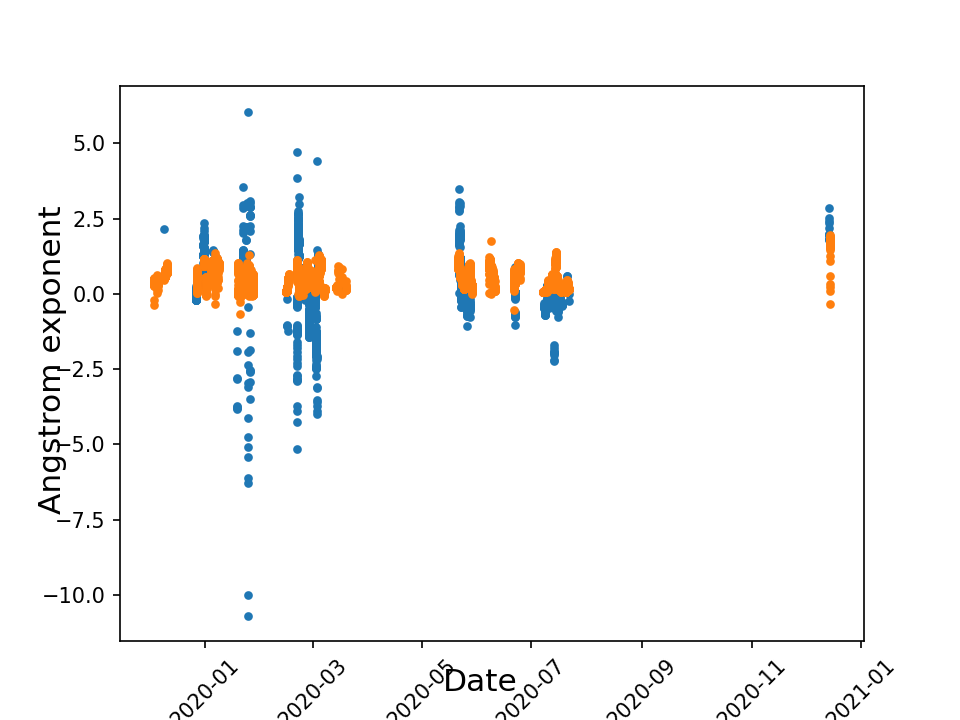
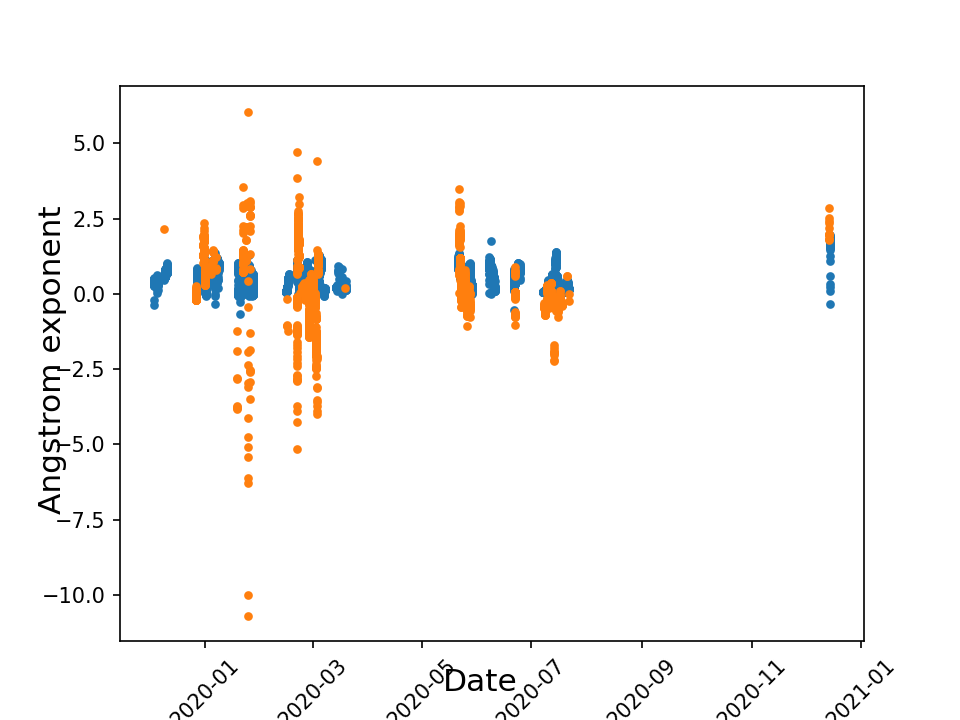
fix graphs up to continuity2

diff --git a/aeronet_cosqm_correlation_santa.py b/aeronet_cosqm_correlation_santa.py
@@ -186,18 +186,18 @@ cosqm_santa_sun = Cloudslidingwindow(cosqm_santa_sun_nodiff, slide_window_size, 
 # (todo)
 
 # plot filtering
-cosqm_band = 3
-plt.figure(figsize=[5,3], dpi=100)
-plt.scatter(dt_santa, cosqm_santa[:,cosqm_band], s=10, label='cosqm_santa')
-plt.scatter(dt_santa_mw, cosqm_santa_mw[:,cosqm_band], s=10, alpha=0.5, label='milky way below '+str(mw_min_angle))
-plt.scatter(dt_santa_moon, cosqm_santa_moon[:,cosqm_band], s=8, alpha=0.5, label='moon below '+str(moon_min_angle))
-plt.scatter(dt_santa_sun, cosqm_santa_sun[:,cosqm_band], s=6, label='sun below '+str(sun_min_angle), c='k')
-#plt.scatter(dt_santa_moon, moon_angles[moon_mask]/10+23, s=10, label='moon angle')
-#plt.scatter(dt_santa_moon_sun, sun_angles[sun_mask]/10+23, s=10, label='sun angle')
-plt.legend(loc=[0,0])
-plt.title('ZNSB Santa-Cruz - Filtered clear band')
-plt.xlabel('date')
-plt.ylabel('CoSQM magnitude (mag)')
+# cosqm_band = 3
+# plt.figure(figsize=[5,3], dpi=100)
+# plt.scatter(dt_santa, cosqm_santa[:,cosqm_band], s=10, label='cosqm_santa')
+# plt.scatter(dt_santa_mw, cosqm_santa_mw[:,cosqm_band], s=10, alpha=0.5, label='milky way below '+str(mw_min_angle))
+# plt.scatter(dt_santa_moon, cosqm_santa_moon[:,cosqm_band], s=8, alpha=0.5, label='moon below '+str(moon_min_angle))
+# plt.scatter(dt_santa_sun, cosqm_santa_sun[:,cosqm_band], s=6, label='sun below '+str(sun_min_angle), c='k')
+# #plt.scatter(dt_santa_moon, moon_angles[moon_mask]/10+23, s=10, label='moon angle')
+# #plt.scatter(dt_santa_moon_sun, sun_angles[sun_mask]/10+23, s=10, label='sun angle')
+# plt.legend(loc=[0,0])
+# plt.title('ZNSB Santa-Cruz - Filtered clear band')
+# plt.xlabel('date')
+# plt.ylabel('CoSQM magnitude (mag)')
 
 
 
@@ -208,13 +208,13 @@ hours_float_raw = np.array([ date.hour+                    #WATCH OUT FOR TIMEZO
     date.second/3600 for date in dt_santa ])
 hours_float_raw[hours_float_raw>12]-=24
 
-plt.figure(figsize=[12,8])
-plt.hist2d(hours_float_raw, cosqm_santa[:,0], 200, cmap='inferno')
-plt.hist2d(hours_float_raw, cosqm_santa[:,0], 200, cmap='inferno', norm=LogNorm())
-plt.ylim(15,21)
-plt.title('ZNSB - no filter - clear')
-plt.xlabel('hour')
-plt.ylabel('CoSQM magnitude')
+# plt.figure(figsize=[12,8])
+# plt.hist2d(hours_float_raw, cosqm_santa[:,1], 200, cmap='inferno')
+# plt.hist2d(hours_float_raw, cosqm_santa[:,1], 200, cmap='inferno', norm=LogNorm())
+# plt.ylim(15,21)
+# plt.title('ZNSB - no filter - clear')
+# plt.xlabel('hour')
+# plt.ylabel('CoSQM magnitude')
 
 #clouds filter
 hours_float_diff = np.array([ date.hour+                    #WATCH OUT FOR TIMEZONE HERE!
@@ -236,13 +236,13 @@ hours_float_moon = np.array([ date.hour+                    #WATCH OUT FOR TIMEZ
     date.second/3600 for date in dt_santa_moon ])
 hours_float_moon[hours_float_moon>12]-=24
 
-plt.figure(figsize=[12,8])
-plt.hist2d(hours_float_moon[np.isfinite(cosqm_santa_moon)[:,0]], cosqm_santa_moon[:,0][np.isfinite(cosqm_santa_moon)[:,0]], 200, cmap='inferno')
-plt.hist2d(hours_float_moon[np.isfinite(cosqm_santa_moon)[:,0]], cosqm_santa_moon[:,0][np.isfinite(cosqm_santa_moon)[:,0]], 200, cmap='inferno', norm=LogNorm())
-plt.ylim(15,21)
-plt.title('ZNSB - filter: moon - clear')
-plt.xlabel('hour')
-plt.ylabel('CoSQM magnitude')
+# plt.figure(figsize=[12,8])
+# plt.hist2d(hours_float_moon[np.isfinite(cosqm_santa_moon)[:,0]], cosqm_santa_moon[:,0][np.isfinite(cosqm_santa_moon)[:,0]], 200, cmap='inferno')
+# plt.hist2d(hours_float_moon[np.isfinite(cosqm_santa_moon)[:,0]], cosqm_santa_moon[:,0][np.isfinite(cosqm_santa_moon)[:,0]], 200, cmap='inferno', norm=LogNorm())
+# plt.ylim(15,21)
+# plt.title('ZNSB - filter: moon - clear')
+# plt.xlabel('hour')
+# plt.ylabel('CoSQM magnitude')
 
 #sun filter
 hours_float_sun = np.array([ date.hour+                    #WATCH OUT FOR TIMEZONE HERE!
@@ -250,13 +250,15 @@ hours_float_sun = np.array([ date.hour+                    #WATCH OUT FOR TIMEZO
     date.second/3600 for date in dt_santa_sun ])
 hours_float_sun[hours_float_sun>12]-=24
 
-plt.figure(figsize=[12,8])
-plt.hist2d(hours_float_sun[np.isfinite(cosqm_santa_sun)[:,0]], cosqm_santa_sun[:,0][np.isfinite(cosqm_santa_sun)[:,0]], 200, cmap='inferno')
-plt.hist2d(hours_float_sun[np.isfinite(cosqm_santa_sun)[:,0]], cosqm_santa_sun[:,0][np.isfinite(cosqm_santa_sun)[:,0]], 200, cmap='inferno', norm=LogNorm())
-plt.ylim(15,21)
-plt.title('ZNSB - filter: sun - clear')
-plt.xlabel('hour')
-plt.ylabel('CoSQM magnitude')
+# plt.figure(figsize=[12,8])
+# plt.hist2d(hours_float_sun[np.isfinite(cosqm_santa_sun)[:,1]], cosqm_santa_sun[:,1][np.isfinite(cosqm_santa_sun)[:,1]], 200, cmap='inferno')
+# plt.hist2d(hours_float_sun[np.isfinite(cosqm_santa_sun)[:,1]], cosqm_santa_sun[:,1][np.isfinite(cosqm_santa_sun)[:,1]], 200, cmap='inferno', norm=LogNorm())
+# plt.ylim(15,21)
+# plt.title('ZNSB - filter: sun - clear')
+# plt.xlabel('hour')
+# plt.ylabel('CoSQM magnitude')
+
+
 
 #!!!following skipped for initial analysis!!!
 #########################
@@ -380,13 +382,13 @@ hours_float[hours_float>12]-=24
 bands = ['clear', 'red', 'green', 'yellow', 'blue']
 
 #2d hist
-plt.figure(figsize=[12,8])
-plt.hist2d(hours_float[np.isfinite(c_norm)[:,0]], c_norm[:,0][np.isfinite(c_norm)[:,0]], 200, cmap='inferno')
-plt.hist2d(hours_float[np.isfinite(c_norm)[:,0]], c_norm[:,0][np.isfinite(c_norm)[:,0]], 200, cmap='inferno', norm=LogNorm())
-plt.ylim(-1,0.75)
-plt.title('ZNSB - Normalized 1-2am - clear')
-plt.xlabel('hour')
-plt.ylabel('CoSQM normalized magnitude')
+# plt.figure(figsize=[12,8])
+# plt.hist2d(hours_float[np.isfinite(c_norm)[:,0]], c_norm[:,0][np.isfinite(c_norm)[:,0]], 200, cmap='inferno')
+# plt.hist2d(hours_float[np.isfinite(c_norm)[:,0]], c_norm[:,0][np.isfinite(c_norm)[:,0]], 200, cmap='inferno', norm=LogNorm())
+# plt.ylim(-1,0.75)
+# plt.title('ZNSB - Normalized 1-2am - clear')
+# plt.xlabel('hour')
+# plt.ylabel('CoSQM normalized magnitude')
 
 # Fitting of the normalized data to correct for night trend (does not change through year, month or day of week)
 # 2nd order function for fit
@@ -402,27 +404,32 @@ fit_params = np.array([fit_params_c, fit_params_r, fit_params_g, fit_params_b, f
 
 xs = np.linspace(hours_float.min()-0.5, hours_float.max()+0.5, 1001)
 
-fig, ax = plt.subplots()
-ax.scatter(hours_float,c_norm[:,3], s=15, label='normalized ZNSB')
-ax.plot(xs, second_order(xs, fit_params_b[0], fit_params_b[1], fit_params_b[2]), label='second order fit', c='k')
-ax.legend()
-plt.xlabel('hour from midnight (h)', fontsize=10)
-plt.ylabel('CoSQM Magnitude (mag)', fontsize=10)
-plt.ylim(-0.6,0.5)
-fig.suptitle(f'Normalized ZNSB Santa-Cruz', fontsize=15)
-plt.savefig(f'images/santa/trends/normalized_fitted_BLUE.png')
+# fig, ax = plt.subplots()
+# ax.scatter(hours_float,c_norm[:,3], s=15, label='normalized ZNSB')
+# ax.plot(xs, second_order(xs, fit_params_b[0], fit_params_b[1], fit_params_b[2]), label='second order fit', c='k')
+# ax.legend()
+# plt.xlabel('hour from midnight (h)', fontsize=10)
+# plt.ylabel('CoSQM Magnitude (mag)', fontsize=10)
+# plt.ylim(-0.6,0.5)
+# fig.suptitle(f'Normalized ZNSB Santa-Cruz', fontsize=15)
+# plt.savefig(f'images/santa/trends/normalized_fitted_BLUE.png')
+
+
+
+
 
 #hist 2d
-plt.figure(figsize=[12,8])
-plt.hist2d(hours_float[np.isfinite(c_norm)[:,2]], c_norm[:,2][np.isfinite(c_norm)[:,2]], 80, cmap='inferno')
-plt.hist2d(hours_float[np.isfinite(c_norm)[:,2]], c_norm[:,2][np.isfinite(c_norm)[:,2]], 80, cmap='inferno', norm=LogNorm())
+plt.figure(dpi=150,figsize=(7,4))
+plt.hist2d(hours_float[np.isfinite(c_norm)[:,3]], c_norm[:,3][np.isfinite(c_norm)[:,3]], 80, cmap='inferno')
+plt.hist2d(hours_float[np.isfinite(c_norm)[:,3]], c_norm[:,3][np.isfinite(c_norm)[:,3]], 80, cmap='inferno', norm=LogNorm())
 plt.plot(xs, second_order(xs, fit_params_g[0], fit_params_g[1], fit_params_g[2]), label='second order fit', c='c')
-#plt.ylim(-1,0.75)
-#plt.title('ZNSB - Normalized 1-2am - clear')
-plt.xlabel('hour from midnight')
-plt.ylabel('CoSQM normalized magnitude')
-plt.colorbar(spacing='uniform')
-plt.savefig('figures/trend/normalized_cosqm_546nm.png')
+plt.xlabel('Time from midnight (h)')
+plt.ylabel('Normalized ZNSB (mag)')
+cbar = plt.colorbar(format='%.0f', label='counts')
+cbar.set_ticks(np.arange(1,11,1))
+cbar.update_ticks()
+cbar.set_ticklabels(np.arange(1,11,1))
+plt.savefig('figures/trend/normalized_cosqm_503nm.png')
 
 # Correct filtered data with fit curve
 cosqm_santa_2nd = np.array([second_order(hours_float, fit_params_c[0], fit_params_c[1], fit_params_c[2]),
@@ -437,22 +444,38 @@ ddays_cosqm = np.array([(date.date()-d[0].date()).days for date in dt_santa_fina
 dt_santa_date = dt_santa_final.dt.date
 
 
-#Plot effect of corrected trends on specific nights (2020-05-20 to 2020-05-29)
-plt.figure()
-plt.scatter(dt_santa_sun, cosqm_santa_sun[:,2], label='raw CoSQM ZNSB')
-plt.scatter(dt_santa_final, cosqm_santa_final[:,2], label='Corrected nightly trend')
-#plt.xlim('2020-05-20', '2020-05-29')
-plt.ylim(19, 20.2)
-plt.legend()
-plt.yscale('log')
+#Plot effect of corrected trends on specific nights
+fig,ax = plt.subplots(dpi=150, figsize=(7,4))
+ax.scatter(dt_santa_sun, cosqm_santa_sun[:,3], label='raw CoSQM ZNSB')
+ax.scatter(dt_santa_final, cosqm_santa_final[:,3], label='Corrected nightly trend')
+ax.set_xlim(pd.Timestamp('2020-05-22 21'), pd.Timestamp('2020-05-23 02'))
+ax.set_ylim(19.38, 19.65)
+ax.set_ylabel('ZNSB (mag)')
+ax.legend()
+#ax.set_yscale('log')
+fig.savefig('figures/correction_single_night_blue.png')
+
+c_tot = np.array((c_norm[:,1]+np.mean(cosqm_santa_sun[:,1][np.where((hours_float ==1) | (hours_float ==2))]),
+c_norm[:,2]+np.mean(cosqm_santa_sun[:,2][np.where((hours_float ==1) | (hours_float ==2))]),
+c_norm[:,3]+np.mean(cosqm_santa_sun[:,3][np.where((hours_float ==1) | (hours_float ==2))]),
+c_norm[:,4]+np.mean(cosqm_santa_sun[:,4][np.where((hours_float ==1) | (hours_float ==2))]))).T
+
+
+a = np.array((hours_float, cosqm_santa_2nd))
+a.sort(axis=0)
+
+x = np.arange(-2,6, 0.01)
 
 #Plot corrected trend to show red goes darker throughout the night compared to other colors
-plt.figure()
-plt.scatter(hours_float, cosqm_santa_sun[:,1], c='r', label=cosqm_bands[0])
-plt.scatter(hours_float, cosqm_santa_sun[:,2], c='g', label=cosqm_bands[1])
+plt.figure(dpi=150, figsize=(7,4))
+plt.plot(x, second_order(x, fit_params_r[0], fit_params_r[1], fit_params_r[2]), c='r', linestyle='solid', linewidth=3, label=f'{cosqm_bands[0]} nm')
+plt.plot(x, second_order(x, fit_params_g[0], fit_params_g[1], fit_params_g[2]), c='g', linestyle='dotted', linewidth=3, label=f'{cosqm_bands[1]} nm')
+plt.plot(x, second_order(x, fit_params_b[0], fit_params_b[1], fit_params_b[2]), c='b', linestyle='dashed', linewidth=3, label=f'{cosqm_bands[2]} nm')
+plt.plot(x, second_order(x, fit_params_y[0], fit_params_y[1], fit_params_y[2]), c='y', linestyle='dashdot', linewidth=3, label=f'{cosqm_bands[3]} nm')
 plt.legend()
-plt.yscale('log')
-
+plt.xlabel('Time from midnight (h)')
+plt.ylabel('Normalized ZNSB (mag)')
+plt.savefig('figures/red_night_evolution.png')
 
 # #hist 2d
 # plt.figure(figsize=[12,8])
@@ -703,7 +726,7 @@ c2='#ff7f0e'
 
 
 #single fit function: correlation
-fig, ax = plt.subplots(2,2, sharex=True, sharey=True, figsize=(10,6))
+fig, ax = plt.subplots(2,2, sharex=True, sharey=True, figsize=(10,6), dpi=150)
 ax[0, 0].scatter(cosqm_am[:,1], aod_am[:,0], label='dusk')
 ax[0, 0].scatter(cosqm_pm[:,1], aod_pm[:,0], label='dawn')
 ax[0, 0].plot(xs, fit_func1(xs, corr_fitr))
@@ -721,44 +744,62 @@ ax[1, 1].scatter(cosqm_pm[:,4], aod_pm[:,3])
 ax[1, 1].plot(xs, fit_func1(xs, corr_fity))
 ax[1, 1].plot(xs, xs*0, linestyle='--', linewidth=0.5, c='k')
 ax[0, 0].set_yscale('log')
-fig.text(0.5, 0.04, 'CoSQM magnitude', ha='center')
+ax[0,0].set_xlim(16.29,21.1)
+ax[0,0].set_ylim(0.01,1.75)
+fig.text(0.5, 0.04, 'ZNSB (mag)', ha='center')
 fig.text(0.04, 0.5, 'AOD', va='center', rotation='vertical')
 #fig.text(0.5, 0.9, r'$AOD = -a*log\left(\frac{x}{b}\right)$', ha='center')
-ax[0, 0].text(0.6,0.9, f'{cosqm_bands[0]} nm,\na,b = {str(corr_single_round[0])[1:-1]}', horizontalalignment='left', verticalalignment='center', transform=ax[0,0].transAxes)
-ax[0, 1].text(0.6,0.9, f'{cosqm_bands[1]} nm,\na,b = {str(corr_single_round[1])[1:-1]}', horizontalalignment='left', verticalalignment='center', transform=ax[0,1].transAxes)
-ax[1, 0].text(0.6,0.9, f'{cosqm_bands[2]} nm,\na,b = {str(corr_single_round[2])[1:-1]}', horizontalalignment='left', verticalalignment='center', transform=ax[1,0].transAxes)
-ax[1, 1].text(0.6,0.9, f'{cosqm_bands[3]} nm,\na,b = {str(corr_single_round[3])[1:-1]}', horizontalalignment='left', verticalalignment='center', transform=ax[1,1].transAxes)
+ax[0, 0].text(0.05,0.5, f'{cosqm_bands[0]} nm\na,b = {str(corr_single_round[0])[1:-1]}', horizontalalignment='left', verticalalignment='center', transform=ax[0,0].transAxes)
+ax[0, 1].text(0.05,0.5, f'{cosqm_bands[1]} nm\na,b = {str(corr_single_round[1])[1:-1]}', horizontalalignment='left', verticalalignment='center', transform=ax[0,1].transAxes)
+ax[1, 0].text(0.05,0.5, f'{cosqm_bands[2]} nm\na,b = {str(corr_single_round[2])[1:-1]}', horizontalalignment='left', verticalalignment='center', transform=ax[1,0].transAxes)
+ax[1, 1].text(0.05,0.5, f'{cosqm_bands[3]} nm\na,b = {str(corr_single_round[3])[1:-1]}', horizontalalignment='left', verticalalignment='center', transform=ax[1,1].transAxes)
 ax[0, 0].set_xlim(16.25,20.6)
 ax[0, 0].set_ylim(0.01)
 ax[0, 0].legend(loc='lower left', prop={'size': 8})
 plt.savefig('figures/correlation/santa/correlation_single_fit_santa.png')
 
 
-#single fit function: continuity
-fig, ax = plt.subplots(2,2, sharex=True, sharey=True)
-ax[0,0].scatter(dt_aod, data_aod[:,0], s=10, label='CE318-T')
-ax[0,0].scatter(dt_santa_corr, cosqm_aod_r, s=10, label='CoSQM derived AOD')
-ax[0,1].scatter(dt_aod, data_aod[:,1], s=10)
-ax[0,1].scatter(dt_santa_corr, cosqm_aod_g, s=10)
-ax[1,0].scatter(dt_aod, data_aod[:,2], s=10)
-ax[1,0].scatter(dt_santa_corr, cosqm_aod_b, s=10)
-ax[1,0].tick_params('x', labelrotation=45)
-ax[1,1].scatter(dt_aod, data_aod[:,3], s=10)
-ax[1,1].scatter(dt_santa_corr, cosqm_aod_y, s=10)
-ax[1,1].tick_params('x', labelrotation=45)
+#single fit function: continuity 2020-05-21
+msize=0.5
+fig, ax = plt.subplots(2,2, sharex=True, sharey=True, dpi=150, figsize=(10,6))
+plt.setp(ax, xticks=[pd.Timestamp('2020-05-22'), pd.Timestamp('2020-05-25'), pd.Timestamp('2020-05-28')], xticklabels=['2020-05-22', '2020-05-25', '2020-05-28'])
+ax[0,0].scatter(dt_aod, data_aod[:,0], s=msize, label='CE318-T')
+ax[0,0].scatter(dt_santa_corr, cosqm_aod_r, s=msize, label='CoSQM derived AOD')
+ax[0,1].scatter(dt_aod, data_aod[:,1], s=msize)
+ax[0,1].scatter(dt_santa_corr, cosqm_aod_g, s=msize)
+ax[1,0].scatter(dt_aod, data_aod[:,2], s=msize)
+ax[1,0].scatter(dt_santa_corr, cosqm_aod_b, s=msize)
+ax[1,0].tick_params('x', labelrotation=0)
+ax[1,1].scatter(dt_aod, data_aod[:,3], s=msize)
+ax[1,1].scatter(dt_santa_corr, cosqm_aod_y, s=msize)
+ax[1,1].tick_params('x', labelrotation=0)
 ax[0, 0].set_yscale('log')
-fig.text(0.5, 0.04, 'Date', ha='center', fontsize=15)
-fig.text(0.04, 0.5, 'Correlated AOD', va='center', rotation='vertical', fontsize=15)
+ax[0,0].set_xlim(pd.Timestamp('2020-05-21'), pd.Timestamp('2020-05-29'))
+ax[0,0].set_ylim(0.02,0.81)
+fig.text(0.04, 0.5, 'Correlated AOD', va='center', rotation='vertical', fontsize=10)
 ax[0,0].legend()
-ax[0, 0].text(0.25,0.75, f'{cosqm_bands[0]} nm', horizontalalignment='center', verticalalignment='center', transform=ax[0,0].transAxes, fontsize=15)
-ax[0, 1].text(0.25,0.75, f'{cosqm_bands[1]} nm', horizontalalignment='center', verticalalignment='center', transform=ax[0,1].transAxes, fontsize=15)
-ax[1, 0].text(0.25,0.75, f'{cosqm_bands[2]} nm', horizontalalignment='center', verticalalignment='center', transform=ax[1,0].transAxes, fontsize=15)
-ax[1, 1].text(0.25,0.75, f'{cosqm_bands[3]} nm', horizontalalignment='center', verticalalignment='center', transform=ax[1,1].transAxes, fontsize=15)
-plt.savefig('figures/continuity/continuity_santa_20200521.png')
+ax[0, 0].text(0.5,0.15, f'{cosqm_bands[0]} nm', horizontalalignment='center', verticalalignment='center', transform=ax[0,0].transAxes, fontsize=10)
+ax[0, 1].text(0.5,0.15, f'{cosqm_bands[1]} nm', horizontalalignment='center', verticalalignment='center', transform=ax[0,1].transAxes, fontsize=10)
+ax[1, 0].text(0.5,0.15, f'{cosqm_bands[2]} nm', horizontalalignment='center', verticalalignment='center', transform=ax[1,0].transAxes, fontsize=10)
+ax[1, 1].text(0.5,0.15, f'{cosqm_bands[3]} nm', horizontalalignment='center', verticalalignment='center', transform=ax[1,1].transAxes, fontsize=10)
+plt.savefig('figures/continuity/continuity_aod_20200521.png')
+
+
+#single fit function: continuity Angstrom 2020-05-21
+fig, ax = plt.subplots(1,1, dpi=150, figsize=(10,6))
+ax.scatter(dt_aod, data_angstrom, s=0.5, label='CE318-T derived 440-679nm AE')
+ax.scatter(dt_santa_corr, cosqm_santa_angstrom, s=0.5, label='CoSQM derived 503-571nm AE')
+ax.set_xlim(pd.Timestamp('2020-05-21'), pd.Timestamp('2020-05-29'))
+ax.set_ylim(-1.34,3.73)
+ax.set_ylabel('503-571nm Angstrom exponent')
+ax.legend()
+#ax.set_yscale('log')
+plt.savefig('figures/continuity/continuity_angstrom_20200521.png')
+
 
 
 #single fit function: continuity -> variance for uncertainty
-fig, ax = plt.subplots(2,2, sharex=True, sharey=True, dpi=150, figsize=(6,4))
+fig, ax = plt.subplots(2,2, sharex=True, sharey=True, dpi=150, figsize=(10,6))
 ax[0,0].scatter(dt_aod, data_aod[:,0], s=10, label='CE318-T')
 ax[0,0].scatter(dt_santa_corr, cosqm_aod_r, s=10, label='CoSQM derived AOD')
 ax[0,1].scatter(dt_aod, data_aod[:,1], s=10)
@@ -782,10 +823,11 @@ ax[1, 1].text(0.25,0.75, f'{cosqm_bands[3]} nm', horizontalalignment='center', v
 transform=ax[1,1].transAxes, fontsize=15)
 plt.savefig('figures/continuity/continuity_santa_20200524_variance.png')
 
+
 #single fit function: continuity Angstrom -> variance uncertainty
 fig, ax = plt.subplots(1,1, dpi=150, figsize=(8,5))
 ax.scatter(dt_aod, data_angstrom, s=10, label='CE318-T derived 440-679nm AE')
-ax.scatter(dt_santa_corr, cosqm_santa_angstrom, s=10, label='CoSQM derived 514-629nm AE')
+ax.scatter(dt_santa_corr, cosqm_santa_angstrom, s=10, label='CoSQM derived 503-571nm AE')
 ax.tick_params('x', labelrotation=45)
 #ax.set_xlim(pd.Timestamp('2020-05-23 12'), pd.Timestamp('2020-05-24 10'))
 #ax.set_ylim(-0.4,0.5)
@@ -793,19 +835,6 @@ ax.tick_params('x', labelrotation=45)
 #fig.text(0.5, 0.04, 'Date', ha='center', fontsize=15)
 fig.text(0.04, 0.5, 'Angstrom exponent', va='center', rotation='vertical', fontsize=15)
 plt.savefig('figures/continuity/continuity_santa_angstrom_variance.png')
-
-
-
-
-#single fit function: continuity Angstrom
-fig, ax = plt.subplots(1,1, dpi=150)
-ax.scatter(dt_aod, data_angstrom, s=10, label='CE318-T derived 440-679nm AE')
-ax.scatter(dt_santa_corr, cosqm_santa_angstrom, s=10, label='CoSQM derived 514-629nm AE')
-ax.tick_params('x', labelrotation=45)
-#ax.set_yscale('log')
-fig.text(0.5, 0.04, 'Date', ha='center', fontsize=15)
-fig.text(0.04, 0.5, 'Angstrom exponent', va='center', rotation='vertical', fontsize=15)
-plt.savefig('figures/continuity/continuity_santa_angstrom.png')
 
 
 
